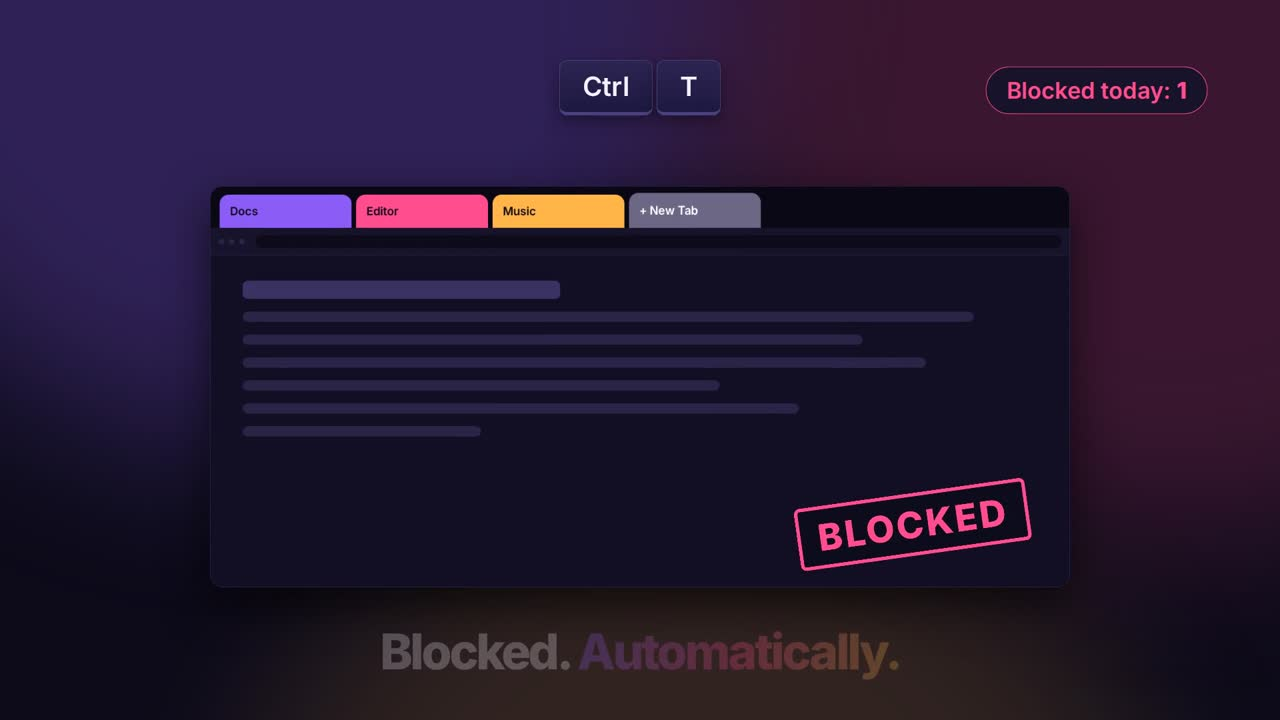
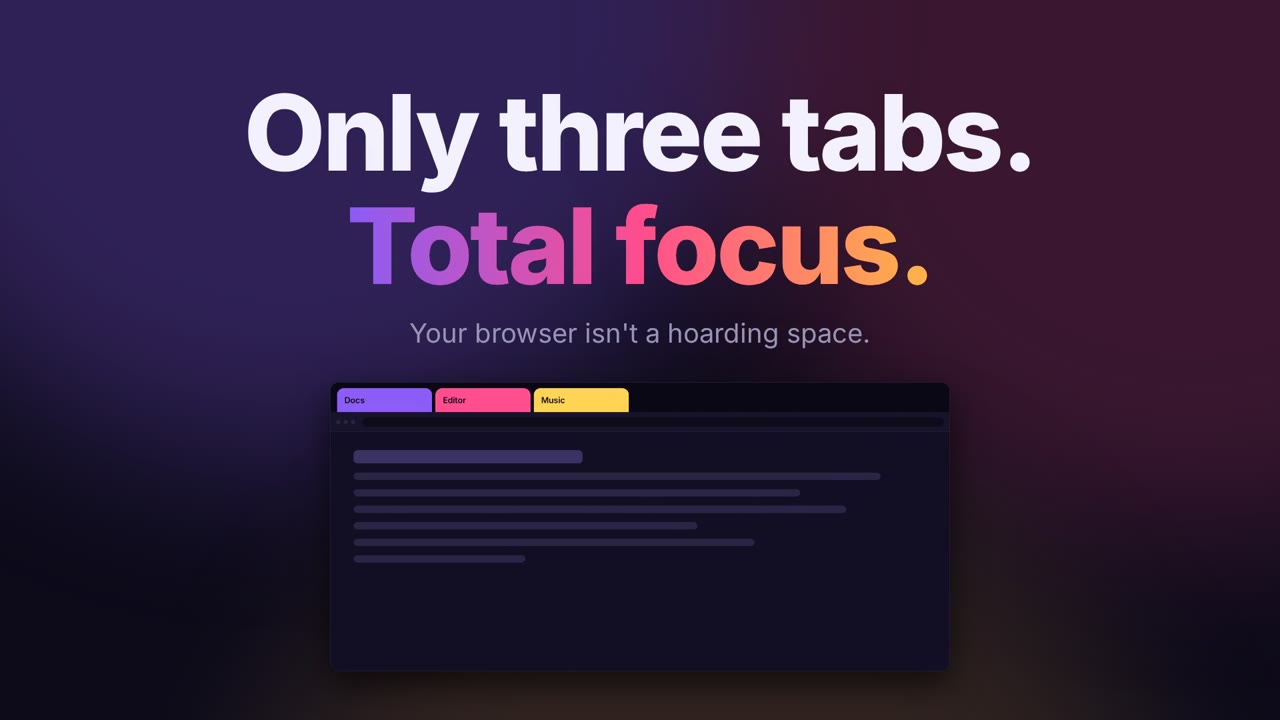
Site: clearer portfolio link, custom video player, SEO, direct downloads, FAQ

Changed region(s): [[0.1562, 0.0917, 0.9688, 0.7944], [0.2812, 0.8556, 0.75, 0.9472], [0.5312, 0.0917, 0.5625, 0.1222]]

diff --git a/docs/index.html b/docs/index.html
@@ -1,10 +1,19 @@
 <!doctype html>
 <html lang="en"><head>
 <meta charset="utf-8"><meta name="viewport" content="width=device-width,initial-scale=1">
-<title>ThreeTabs — Only three tabs. Total focus.</title>
-<meta name="description" content="A free, open-source browser extension that limits you to 3 tabs (adjustable) and blocks the rest. Works on Chrome, Edge, Brave and Firefox.">
-<meta property="og:title" content="ThreeTabs — Only three tabs. Total focus.">
-<meta property="og:description" content="Limit your browser to 3 tabs and block new ones. Free & open source.">
+<title>ThreeTabs: Tab Limiter Extension for Chrome, Edge &amp; Firefox | Focus with 3 Tabs</title>
+<meta name="description" content="ThreeTabs is a free, open-source tab limiter. Limit your browser to 3 tabs (adjustable 1-50) and block new tabs so you stay focused. No tracking. Chrome, Edge, Brave and Firefox.">
+<meta name="keywords" content="tab limiter, limit tabs, tab limit extension, chrome extension, firefox add-on, focus, productivity, block new tabs, too many tabs, open source">
+<meta name="author" content="Mohamad Almousli">
+<meta name="robots" content="index,follow,max-image-preview:large">
+<meta name="theme-color" content="#0D0B1A">
+<link rel="canonical" href="https://mkalmousli.github.io/ThreeTabs/">
+<meta property="og:type" content="website"><meta property="og:site_name" content="ThreeTabs"><meta property="og:url" content="https://mkalmousli.github.io/ThreeTabs/">
+<meta property="og:title" content="ThreeTabs: Only three tabs. Total focus.">
+<meta property="og:description" content="A free, open-source extension that limits your browser to 3 tabs and blocks the rest. No tracking.">
+<meta property="og:image" content="https://mkalmousli.github.io/ThreeTabs/assets/og.png"><meta property="og:image:width" content="1280"><meta property="og:image:height" content="640"><meta property="og:image:alt" content="ThreeTabs: Only three tabs. Total focus.">
+<meta name="twitter:card" content="summary_large_image"><meta name="twitter:title" content="ThreeTabs: Only three tabs. Total focus."><meta name="twitter:description" content="Limit your browser to 3 tabs and block the rest. Free and open source."><meta name="twitter:image" content="https://mkalmousli.github.io/ThreeTabs/assets/og.png">
+<script type="application/ld+json">[{"@context":"https://schema.org","@type":"SoftwareApplication","name":"ThreeTabs","alternateName":"Three Tabs tab limiter","applicationCategory":"BrowserApplication","operatingSystem":"Chrome, Microsoft Edge, Brave, Opera, Vivaldi, Firefox","description":"A free, open-source browser extension that limits you to 3 tabs (adjustable from 1 to 50) and blocks new tabs to help you focus.","softwareVersion":"1.1.1","url":"https://mkalmousli.github.io/ThreeTabs/","image":"https://mkalmousli.github.io/ThreeTabs/assets/og.png","downloadUrl":"https://github.com/mkalmousli/ThreeTabs/releases/latest/download/threetabs.zip","license":"https://opensource.org/licenses/MIT","isAccessibleForFree":true,"offers":{"@type":"Offer","price":"0","priceCurrency":"USD"},"author":{"@type":"Person","name":"Mohamad Almousli","url":"https://al-mo.de","sameAs":["https://github.com/mkalmousli","https://ko-fi.com/mkalmousli"]}},{"@context":"https://schema.org","@type":"FAQPage","mainEntity":[{"@type":"Question","name":"How do I limit the number of tabs in Chrome?","acceptedAnswer":{"@type":"Answer","text":"Install ThreeTabs. It limits your browser to 3 open tabs by default and closes any new tab you open beyond the limit. You can change the limit from 1 to 50 in the settings."}},{"@type":"Question","name":"Does ThreeTabs close my existing tabs?","acceptedAnswer":{"@type":"Answer","text":"No. Tabs that are already open are never closed. Only new tabs and windows beyond your limit are blocked."}},{"@type":"Question","name":"Is ThreeTabs free and does it track me?","acceptedAnswer":{"@type":"Answer","text":"ThreeTabs is free and open source under the MIT license. It has no analytics, no ads and no accounts. The only network request is an optional daily check for a new version on GitHub, which can be turned off."}},{"@type":"Question","name":"Which browsers does ThreeTabs support?","acceptedAnswer":{"@type":"Answer","text":"Chrome, Microsoft Edge, Brave, Opera, Vivaldi and Firefox 121 or newer."}},{"@type":"Question","name":"Can I change the tab limit?","acceptedAnswer":{"@type":"Answer","text":"Yes. Choose any limit from 1 to 50, count tabs across all windows or per window, and choose whether blocked links are dropped or opened in your current tab."}}]}]</script>
 <link rel="icon" href="assets/favicon.png">
 <style>
 :root{--bg:#0D0B1A;--panel:#17132B;--line:#2A2447;--text:#F4F1FF;--muted:#9A94B8;--violet:#8B5CF6;--pink:#FF4D8D;--amber:#FFB547}
@@ -50,9 +59,43 @@ section{padding:72px 0}h2{font-size:clamp(28px,5vw,44px);letter-spacing:-1px;mar
 footer{padding:40px 0;text-align:center;color:var(--muted);font-size:14px}
 @media(max-width:640px){.tab{flex-basis:30%}.tab.fourth{left:calc(90% + 12px)}.page{padding:20px}}
 @media(prefers-reduced-motion:reduce){*{animation:none!important}.stamp{opacity:1}}
+
+nav .links{display:flex;gap:14px;align-items:center}
+.who{display:flex;align-items:center;gap:10px;padding:7px 16px 7px 8px;border-radius:999px;text-decoration:none;color:var(--text);background:linear-gradient(var(--panel),var(--panel)) padding-box,linear-gradient(90deg,var(--violet),var(--pink),var(--amber)) border-box;border:1.5px solid transparent;transition:transform .2s,box-shadow .2s}
+.who:hover{transform:translateY(-2px);box-shadow:0 8px 28px #8B5CF655}
+.who .av{width:34px;height:34px;border-radius:50%;display:grid;place-items:center;font-weight:800;background:linear-gradient(135deg,var(--violet),var(--pink));color:#fff}
+.who span+span{display:flex;flex-direction:column;line-height:1.15;text-align:left}.who b{font-size:14px}.who small{font-size:12px;color:var(--amber);font-weight:700}
+@media(max-width:640px){.who b{display:none}.who{padding:6px 14px 6px 6px}.who small{font-size:14px}nav a.gh{display:none}}
+/* video */
+.player{position:relative;border-radius:22px;overflow:hidden;background:#000;border:1px solid var(--line);box-shadow:0 40px 100px #000a,0 0 120px #8B5CF633;aspect-ratio:16/9}
+.player video{width:100%;height:100%;display:block;object-fit:cover}
+.player .cover{position:absolute;inset:0;border:0;padding:0;cursor:pointer;background:var(--poster) center/cover;display:grid;place-items:center;transition:opacity .35s}
+.player .cover:before{content:"";position:absolute;inset:0;background:linear-gradient(#0D0B1A00 40%,#0D0B1Acc)}
+.player.playing .cover{opacity:0;pointer-events:none}
+.play{position:relative;width:104px;height:104px;border-radius:50%;background:linear-gradient(135deg,var(--violet),var(--pink));display:grid;place-items:center;box-shadow:0 12px 50px #FF4D8D77;transition:transform .2s}
+.play:before{content:"";position:absolute;inset:-10px;border-radius:50%;border:2px solid #FF4D8D88;animation:ping 2s infinite}
+.play svg{width:40px;height:40px;margin-left:6px;fill:#fff}
+.cover:hover .play,.cover:focus-visible .play{transform:scale(1.1)}
+.cover:focus-visible{outline:3px solid var(--amber);outline-offset:-6px}
+@keyframes ping{0%{transform:scale(.9);opacity:1}100%{transform:scale(1.5);opacity:0}}
+.cover .meta{position:absolute;left:24px;bottom:20px;right:24px;display:flex;justify-content:space-between;align-items:flex-end;gap:12px;text-align:left}
+.cover .meta strong{font-size:22px;display:block}.cover .meta span{color:var(--muted);font-size:15px}
+.chip{background:#0D0B1Acc;border:1px solid var(--line);border-radius:999px;padding:6px 14px;font-size:14px;font-weight:700;color:var(--text);white-space:nowrap}
+@media(prefers-reduced-motion:reduce){.play:before{animation:none}}
+/* install */
+.dl{display:flex;flex-wrap:wrap;gap:10px;margin:14px 0 4px}
+.dl a{padding:11px 18px;border-radius:10px;font-weight:700;font-size:15px;text-decoration:none;background:linear-gradient(90deg,var(--violet),var(--pink));color:#fff}
+.dl a.alt{background:var(--bg);border:1px solid var(--line);color:var(--text)}
+.dl a:hover{filter:brightness(1.1)}
+/* maker + faq */
+.maker{display:flex;gap:24px;align-items:center;flex-wrap:wrap;background:var(--panel);border:1px solid var(--line);border-radius:24px;padding:28px}
+.maker .av{width:72px;height:72px;border-radius:50%;display:grid;place-items:center;font-size:30px;font-weight:800;background:linear-gradient(135deg,var(--violet),var(--pink))}
+.maker div.t{flex:1;min-width:240px}.maker h3{margin:0 0 4px;font-size:24px}.maker p{margin:0;color:var(--muted)}
+details{background:var(--panel);border:1px solid var(--line);border-radius:14px;padding:16px 20px;margin-bottom:10px}
+summary{cursor:pointer;font-weight:700;font-size:18px}details p{color:var(--muted);margin:10px 0 0}
 </style></head><body>
 <div class="wrap">
-<nav><a class="logo" href="#"><img src="assets/logo.svg" alt="">ThreeTabs</a><span class="links"><a class="gh" href="https://al-mo.de">Portfolio</a><a class="gh" href="https://github.com/mkalmousli/ThreeTabs">★ GitHub</a></span></nav>
+<nav><a class="logo" href="#"><img src="assets/logo.svg" alt="">ThreeTabs</a><span class="links"><a class="who" href="https://al-mo.de" rel="author" title="Visit Mohamad Almousli's portfolio"><span class="av">M</span><span><b>By Mohamad Almousli</b><small>Portfolio ↗</small></span></a><a class="gh" href="https://github.com/mkalmousli/ThreeTabs">★ GitHub</a></span></nav>
 <header class="hero">
   <h1>Only three tabs.<br><em>Total focus.</em></h1>
   <p>Your browser isn't a hoarding space. ThreeTabs caps your open tabs and quietly turns away the rest, so you finish the thing in front of you.</p>
@@ -63,7 +106,12 @@ footer{padding:40px 0;text-align:center;color:var(--muted);font-size:14px}
   </div>
 </header>
 
-<section><h2>Watch it in 28 seconds</h2><p class="sub">Sound on.</p><video controls preload="none" poster="assets/ad-poster.jpg" src="assets/threetabs-ad.mp4" style="width:100%;border-radius:20px;border:1px solid var(--line);box-shadow:0 30px 80px #0008"></video></section>
+<section><h2>Watch it in 28 seconds</h2><p class="sub">Thirty tabs. One extension. Sound on for the full effect.</p>
+<div class="player" id="player" style="--poster:url(assets/ad-poster.jpg)">
+  <video id="ad" preload="metadata" playsinline controls controlslist="nodownload" poster="assets/ad-poster.jpg" aria-label="ThreeTabs promo video" src="assets/threetabs-ad.mp4"></video>
+  <button class="cover" id="cover" aria-label="Play the ThreeTabs video"><span class="play"><svg viewBox="0 0 24 24" aria-hidden="true"><path d="M7 4.5v15l13-7.5z"/></svg></span>
+   <span class="meta"><span><strong>See ThreeTabs in action</strong><span>The 4th tab never stood a chance.</span></span><span class="chip">0:28 · 🔊 Sound on</span></span></button>
+</div></section>
 
 <section><h2>How it works</h2><p class="sub">No dashboards. No guilt. Just a hard limit.</p>
 <div class="grid steps">
@@ -82,12 +130,32 @@ footer{padding:40px 0;text-align:center;color:var(--muted);font-size:14px}
 <div class="card"><h3>Every browser</h3><p>Chrome, Edge, Brave, Opera, Vivaldi and Firefox. One codebase.</p></div>
 </div></section>
 
-<section id="install"><h2>Install</h2><p class="sub">Grab the latest build from the releases page, or load it straight from source.</p>
+<section id="install"><h2>Install</h2><p class="sub">Download the latest build directly. Chrome Web Store and Firefox Add-ons listings are on the way.</p>
 <div class="install">
-<div class="card" style="--c:var(--violet)"><h3>Chrome · Edge · Brave</h3><ol><li>Clone the repo or download the ZIP</li><li>Open <code>chrome://extensions</code></li><li>Enable <b>Developer mode</b></li><li><b>Load unpacked</b> → pick the <code>extension</code> folder</li></ol></div>
-<div class="card" style="--c:var(--amber)"><h3>Firefox</h3><ol><li>Clone the repo or download the ZIP</li><li>Open <code>about:debugging#/runtime/this-firefox</code></li><li><b>Load Temporary Add-on…</b></li><li>Pick <code>extension/manifest.json</code></li></ol></div>
+<div class="card" style="--c:var(--violet)"><h3>Chrome · Edge · Brave · Opera</h3>
+<div class="dl"><a href="https://github.com/mkalmousli/ThreeTabs/releases/latest/download/threetabs.zip">⬇ Download ZIP</a><a class="alt" href="https://github.com/mkalmousli/ThreeTabs/releases/latest">All releases</a></div>
+<ol><li>Unzip the download to a folder</li><li>Open <code>chrome://extensions</code> and enable <b>Developer mode</b></li><li>Click <b>Load unpacked</b> and pick the folder</li></ol></div>
+<div class="card" style="--c:var(--amber)"><h3>Firefox 121+</h3>
+<div class="dl"><a href="https://github.com/mkalmousli/ThreeTabs/releases/latest/download/threetabs.zip">⬇ Download ZIP</a><a class="alt" href="https://github.com/mkalmousli/ThreeTabs/archive/refs/heads/main.zip">Source code ZIP</a></div>
+<ol><li>Unzip the download</li><li>Open <code>about:debugging#/runtime/this-firefox</code></li><li>Click <b>Load Temporary Add-on…</b> and pick <code>manifest.json</code></li></ol></div>
 </div></section>
 
+<section><h2>Questions</h2>
+<details><summary>How do I limit tabs in Chrome?</summary><p>Install ThreeTabs. It allows 3 open tabs by default and closes any new tab beyond that. Change the limit from 1 to 50 in the settings.</p></details>
+<details><summary>Does it close my existing tabs?</summary><p>No. Tabs that are already open are never touched. Only new tabs and windows beyond your limit are blocked.</p></details>
+<details><summary>Is it really free? Does it track me?</summary><p>Free and open source (MIT). No analytics, no ads, no accounts. The only network request is an optional daily version check on GitHub that you can turn off.</p></details>
+<details><summary>Which browsers work?</summary><p>Chrome, Edge, Brave, Opera, Vivaldi and Firefox 121 or newer.</p></details>
+<details><summary>Can I change the limit?</summary><p>Yes: any number from 1 to 50, counted across all windows or per window. Blocked links can be dropped or opened in your current tab.</p></details>
+</section>
+
+<section><div class="maker"><div class="av">M</div><div class="t"><h3>Made by Mohamad Almousli</h3><p>I build small, sharp tools. See my portfolio and other projects.</p></div><a class="btn main" href="https://al-mo.de" rel="author">Visit al-mo.de ↗</a></div></section>
+
 <section><div class="cta"><h2>Free forever. MIT licensed.</h2><p class="sub" style="margin:0 auto 24px">Read it, fork it, improve it. The whole extension is a few hundred lines.</p><a class="btn main" href="https://github.com/mkalmousli/ThreeTabs">Star on GitHub</a> <a class="btn kofi" href="https://ko-fi.com/mkalmousli"><img src="assets/kofi.svg" alt="" width="18" height="18"> Support on Ko-fi</a></div></section>
-<footer>Made with focus · <a href="https://ko-fi.com/mkalmousli">Ko-fi</a> · <a href="privacy.html">Privacy</a> · <a href="terms.html">Terms</a> · <a href="https://github.com/mkalmousli/ThreeTabs">mkalmousli/ThreeTabs</a></footer>
-</div></body></html>
+<footer>Made with focus by <a href="https://al-mo.de" rel="author">Mohamad Almousli</a> · <a href="https://ko-fi.com/mkalmousli">Ko-fi</a> · <a href="privacy.html">Privacy</a> · <a href="terms.html">Terms</a> · <a href="https://github.com/mkalmousli/ThreeTabs">mkalmousli/ThreeTabs</a></footer>
+</div>
+<script>
+(()=>{const p=document.getElementById('player'),v=document.getElementById('ad'),c=document.getElementById('cover');
+v.controls=false;
+c.addEventListener('click',()=>{p.classList.add('playing');v.controls=true;v.currentTime=0;v.play().catch(()=>{});});
+v.addEventListener('ended',()=>{p.classList.remove('playing');v.controls=false;});})();
+</script></body></html>

diff --git a/docs/privacy.html b/docs/privacy.html
@@ -1,12 +1,12 @@
 <!doctype html><html lang="en"><head><meta charset="utf-8"><meta name="viewport" content="width=device-width,initial-scale=1">
-<title>Privacy Policy — ThreeTabs</title><link rel="icon" href="assets/favicon.png"><link rel="stylesheet" href="legal.css"></head><body>
+<title>Privacy Policy — ThreeTabs</title><link rel="canonical" href="https://mkalmousli.github.io/ThreeTabs/privacy.html"><meta name="author" content="Mohamad Almousli"><link rel="icon" href="assets/favicon.png"><link rel="stylesheet" href="legal.css"></head><body>
 <div class="tri"></div><main>
 <nav><a href="./">← ThreeTabs</a></nav>
 <h1>Privacy Policy</h1><p class="meta">Last updated: 4 October 2026 · Applies to ThreeTabs 1.1.0 and later</p>
 <p class="tldr"><b>In short:</b> ThreeTabs has no analytics, no tracking, no ads, no accounts, and no server of its own. It never reads or sends your browsing history. Your settings stay on your device. The one network request it makes is an optional daily check of GitHub for a new version, which you can turn off.</p>
 
 <h2>1. Who we are</h2>
-<p>ThreeTabs is a free and open-source browser extension by <a href="https://github.com/mkalmousli">mkalmousli</a> (the "developer"). The source code is public at <a href="https://github.com/mkalmousli/ThreeTabs">github.com/mkalmousli/ThreeTabs</a>, so every claim here can be checked in the code.</p>
+<p>ThreeTabs is a free and open-source browser extension by <a href="https://al-mo.de">Mohamad Almousli</a> (<a href="https://github.com/mkalmousli">mkalmousli</a>, the "developer"). The source code is public at <a href="https://github.com/mkalmousli/ThreeTabs">github.com/mkalmousli/ThreeTabs</a>, so every claim here can be checked in the code.</p>
 
 <h2>2. Data the extension stores (locally only)</h2>
 <p>The extension saves the following in your browser's extension storage (<code>storage.local</code>). It never leaves your device and the developer cannot see it. If your browser syncs extension data, that is done by the browser, not by ThreeTabs.</p>

diff --git a/docs/terms.html b/docs/terms.html
@@ -1,5 +1,5 @@
 <!doctype html><html lang="en"><head><meta charset="utf-8"><meta name="viewport" content="width=device-width,initial-scale=1">
-<title>Terms of Use — ThreeTabs</title><link rel="icon" href="assets/favicon.png"><link rel="stylesheet" href="legal.css"></head><body>
+<title>Terms of Use — ThreeTabs</title><link rel="canonical" href="https://mkalmousli.github.io/ThreeTabs/terms.html"><meta name="author" content="Mohamad Almousli"><link rel="icon" href="assets/favicon.png"><link rel="stylesheet" href="legal.css"></head><body>
 <div class="tri"></div><main>
 <nav><a href="./">← ThreeTabs</a></nav>
 <h1>Terms of Use</h1><p class="meta">Last updated: 4 October 2026 · Applies to ThreeTabs 1.1.0 and later</p>
